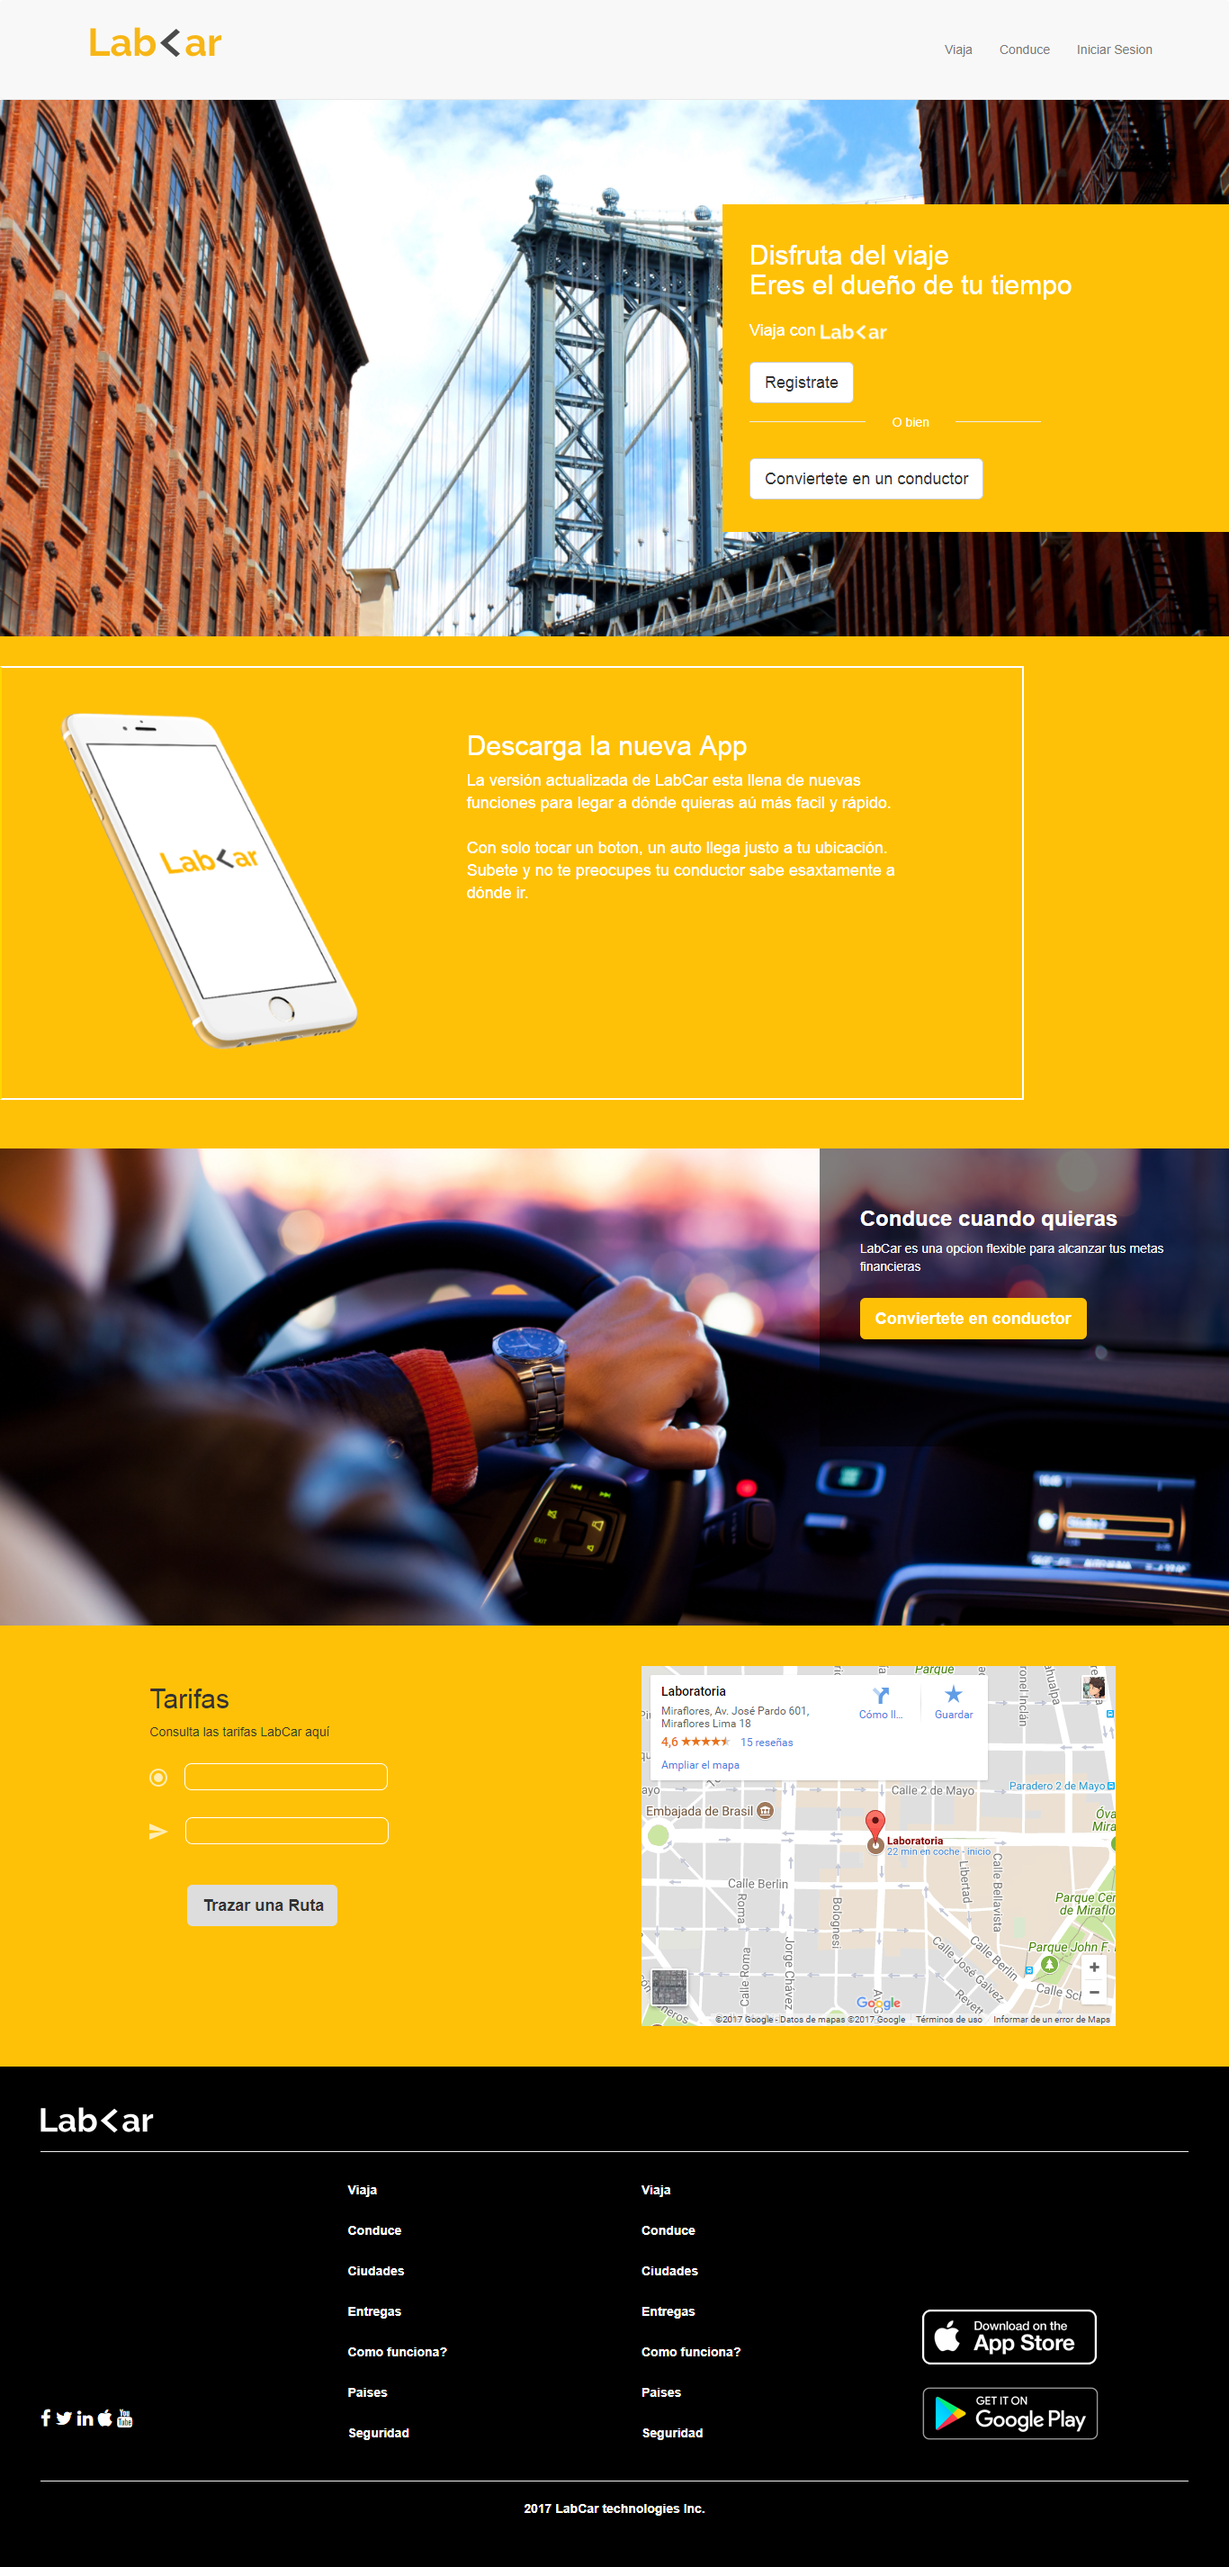
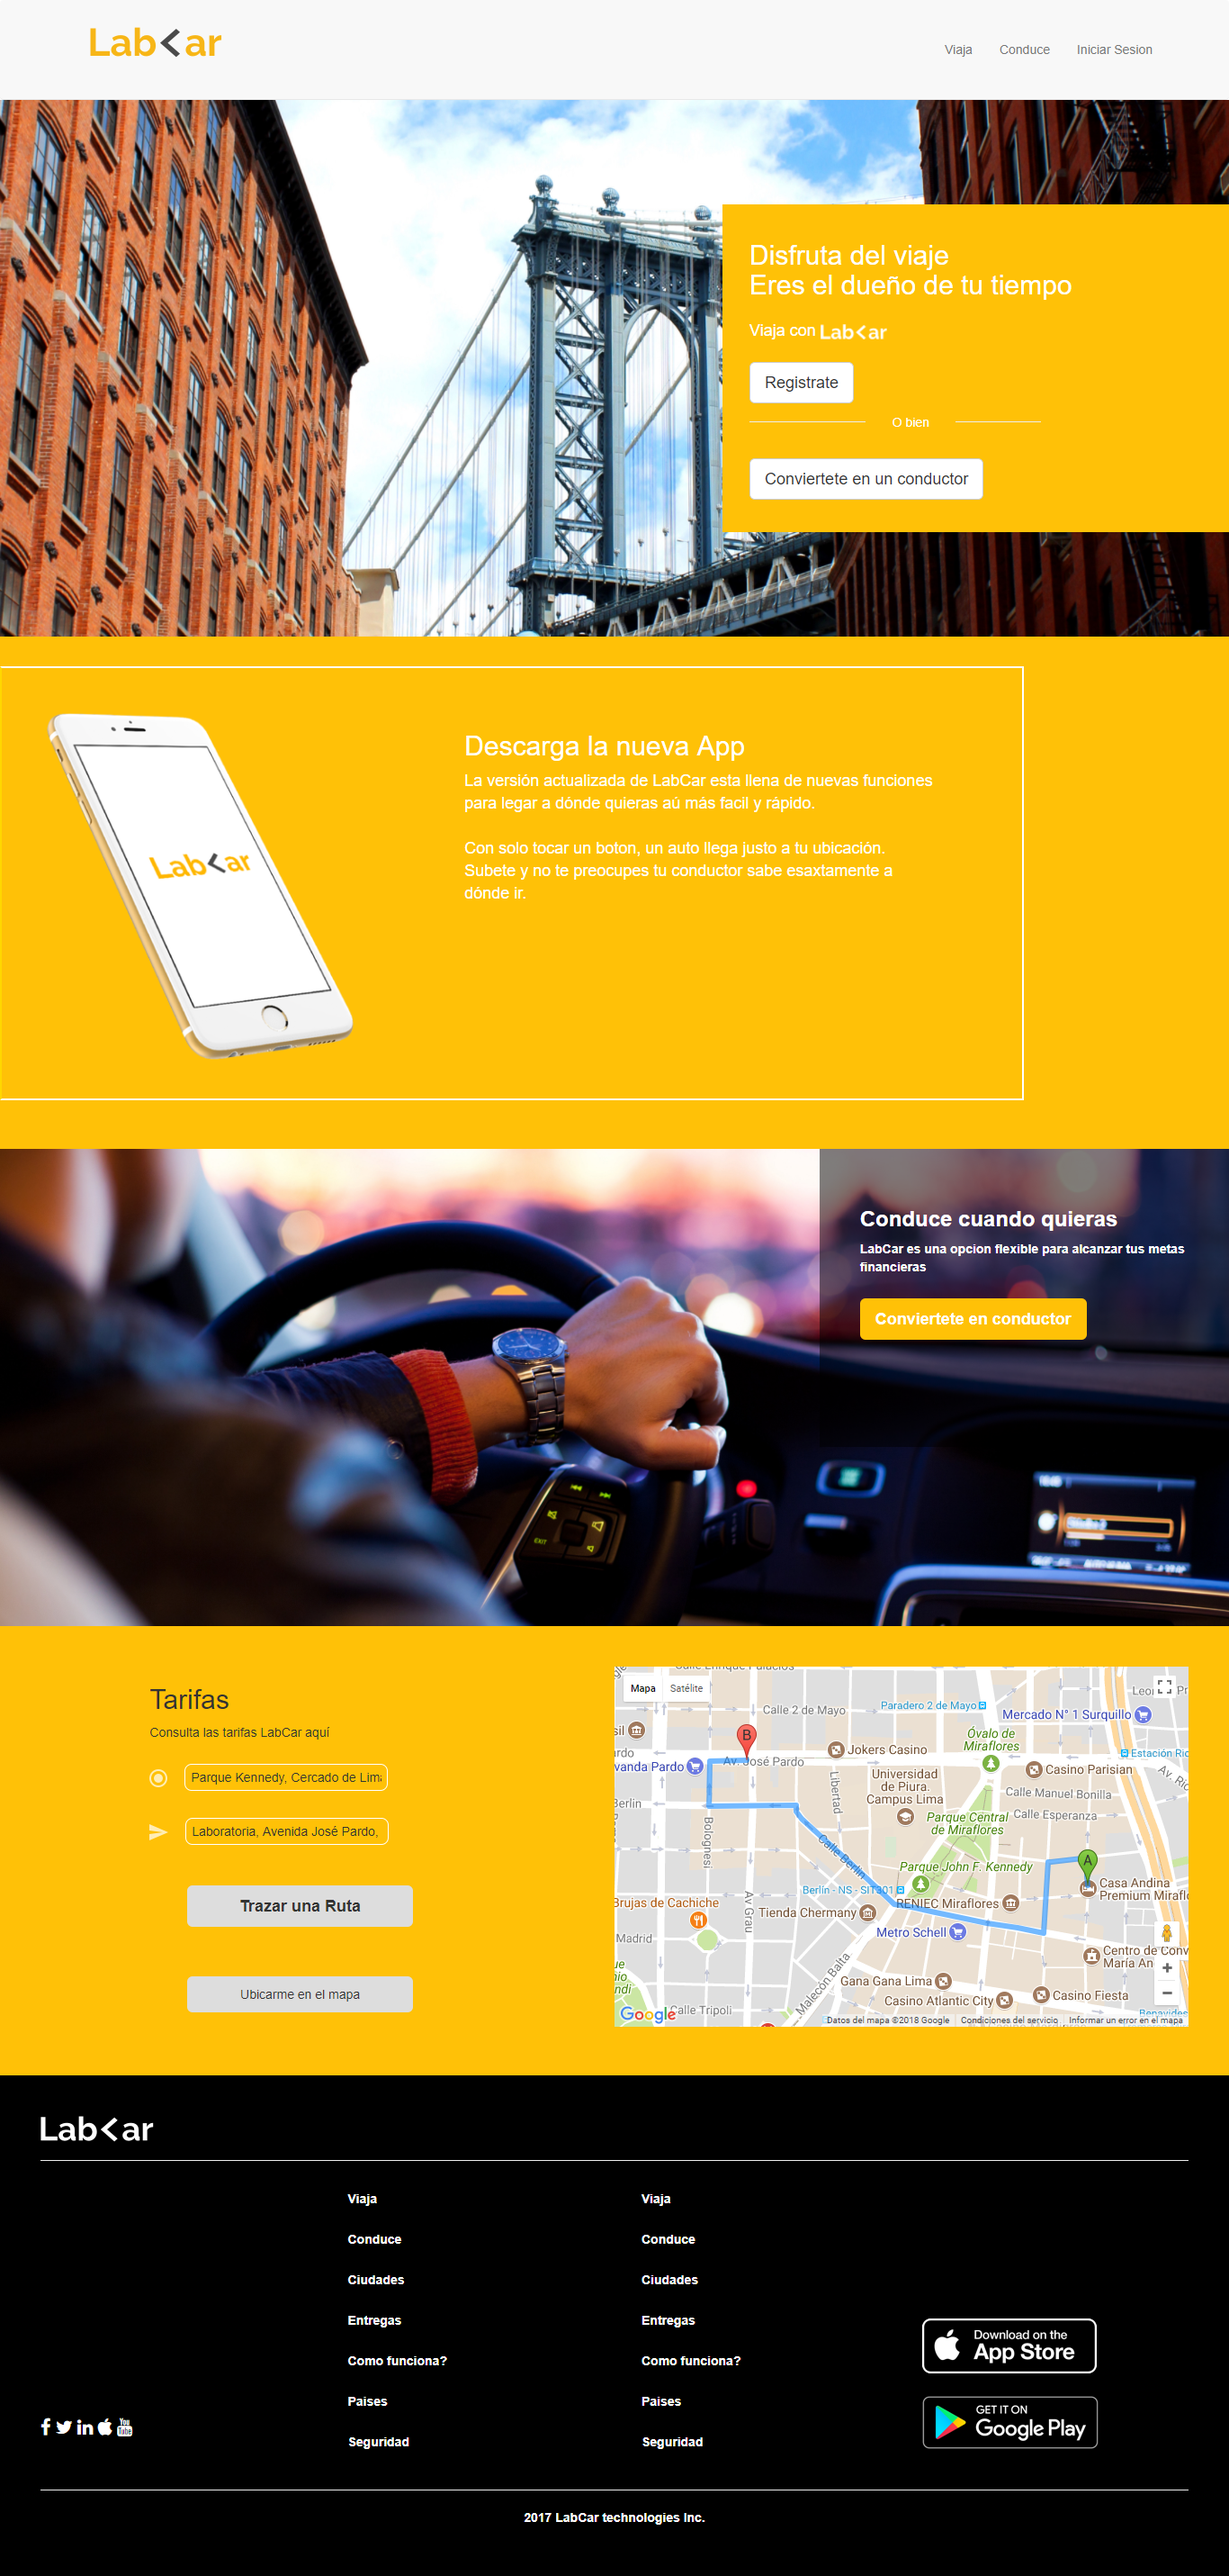
arreglando readme

diff --git a/index.html b/index.html
@@ -236,11 +236,11 @@
    <p>Consulta las tarifas LabCar aquí</p>
    <div>
     <img src="assets/images/shape.png" alt="">
-    <input id="originPoint" class="input" type="text" name="" value="">
+    <input id="originPoint" class="input pd-6" type="text" name="" value="">
    </div>
    <div>
     <img src="assets/images/shape2.png" alt="">
-    <input id="destinyPoint" class="input" type="text" name="" value="">
+    <input id="destinyPoint" class="input pd-6" type="text" name="" value="">
    </div>
    <button id="btn" type="button" class="btn btn-lg mrg-top-30 mrg-bt-25 col-xs-12 col-md-offset-1 col-md-6"><strong>Trazar una Ruta</strong></button>
    <button id="myPosition" class="fs-17 btn btn-lg mrg-top-30 mrg-bt-25 col-xs-12 col-md-offset-1 col-md-6" type="button" name="button">Ubicarme en el mapa</button>

diff --git a/css/main.css b/css/main.css
@@ -13,6 +13,9 @@
   padding-bottom: 10px;
   border-width: 0 0 1px;
 }
+.pd-6 {
+  padding: 6px;
+}
 .bg-taxi {
   height: 90vh;
   background-image: url("../assets/images/taxi.jpg");

diff --git a/README.md b/README.md
@@ -1,29 +1,44 @@
-## README
-### Proyecto: LABCAR(Bootstrap)
+##LABCAR
+
+![Labcar-icon](assets/images/logoForma.png)
 
 1. Descripción del Proyecto:
 
-	-Este proyecto contiene una página web responsive(desktop y mobile) sobre la aplicación labcar usando bootstrap.
+Usando los recursos de bootstrap, la api de html5 y google maps api logramos replicar una página web responsive (mobile y desktop) para el servicio de taxis Labcar en el cual el usuario puede realizar un trazado de ruta con dos puntos ingresados por el usuario mediante inputs y visualizarlo en un mapa, además ofrece la opcion de ubicar la posicion del usuario en el mapa.
 
 2. Herramientas utilizadas:
-
 	- HTML5
 	- CSS3
 	- JS
 	- Bootstrap
+	- Google Maps api
+	- Api de HTML5 (Geolocation)
 
-3. Autor
-	- Lilliam Haro(V-Apple)	 
+3. Funcionamiento
+
+  - Para el autocompletado de direcciones se uso la función de la biblioteca de Places de la Google Maps JavaScript API. Esta herramienta se uso con la finalidad de darlea la aplicación el comportamiento de escritura anticipada para simplicar el trabajo del usuario y evitar errorer de escrituras.
+
+	- Para el trazado de ruta se uso una key única dentro de un script ubicado dentro del html en el cual se esta integrando la funcion de inicio(callback=initMap) y la libreria de autocompletado de google maps.
 
 **VISTA DESKTOP**
+
 ![Recursos](assets/images/desktop.png)
 
 **MODALES**
+
 ![Recursos](assets/images/modal-1.png)
 
 ![Recursos](assets/images/modal-2.png)
 
 ![Recursos](assets/images/modal-3.png)
 
-**VISTA MOBILE**
+**MODALES**
 ![Recursos](assets/images/mobile.png)
+
+5. Autor
+	- Lilliam Haro
+
+6. Fuentes de Consulta Rápida
+ - Documentacion de Google Api [Ver](https://developers.google.com/maps/documentation/?hl=es-419)
+ - Laboratoria Lms [Ver](https://lms.laboratoria.la/)
+ - Documentacion de Bootstrap [Ver](https://getbootstrap.com/docs/3.3/getting-started/)
